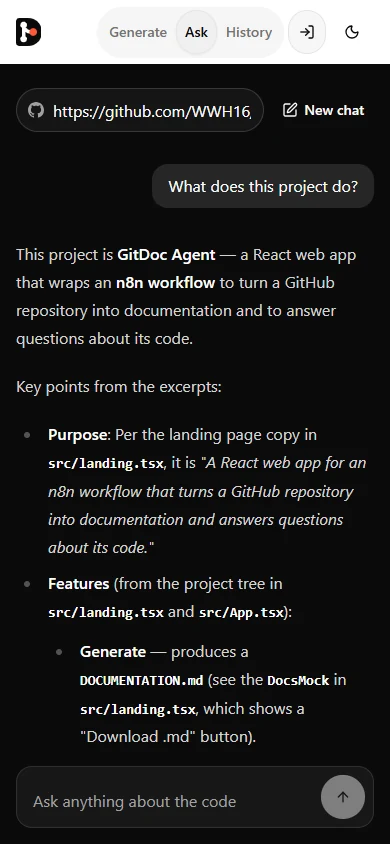
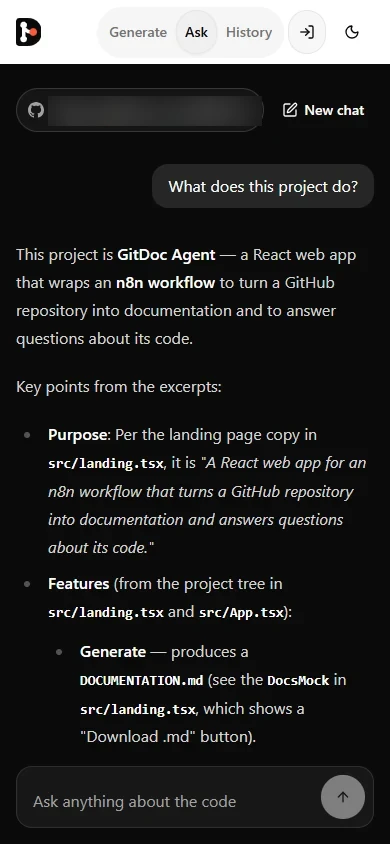
chore(landing): remove links to the GitHub repository
Drop the header GitHub button and the footer source and README links, and blur
the repository URL in the Generate and Ask screenshots.

Changed region(s): [[0.1231, 0.0924, 0.6462, 0.154]]

diff --git a/src/landing.tsx b/src/landing.tsx
@@ -12,7 +12,6 @@ import './landing.css'
 
 // Everything here is true of the product today: no testimonials, numbers or pricing (see PRODUCT.md).
 // The screenshots are the running app documenting this very repository (public/landing).
-const REPO_URL = 'https://github.com/WWH16/GitDoc-Agent'
 const APP_URL = '/app/'
 const LEAD = 'max-w-[52ch] text-lead leading-[1.45] text-pretty text-muted-foreground'
 const QUICK = 'duration-200 ease-out-quart motion-reduce:transition-none'
@@ -102,13 +101,6 @@ function Header() {
           ))}
         </nav>
         <div className="ml-auto flex items-center gap-1 sm:gap-2">
-          <a
-            href={REPO_URL}
-            aria-label="GitDoc Agent on GitHub"
-            className={buttonVariants({ variant: 'ghost', size: 'icon' })}
-          >
-            <GitHubIcon className="size-5" />
-          </a>
           <ThemeToggle />
           <a href={APP_URL} className={cn(buttonVariants(), 'active:translate-y-px')}>
             Open the app
@@ -608,12 +600,6 @@ function Footer() {
           <nav aria-label="Footer" className="flex flex-wrap gap-x-6 gap-y-2">
             <a href={APP_URL} className="underline-offset-4 hover:underline">
               Open the app
-            </a>
-            <a href={REPO_URL} className="underline-offset-4 hover:underline">
-              Source on GitHub
-            </a>
-            <a href={`${REPO_URL}#readme`} className="underline-offset-4 hover:underline">
-              Run it locally
             </a>
           </nav>
         </div>
